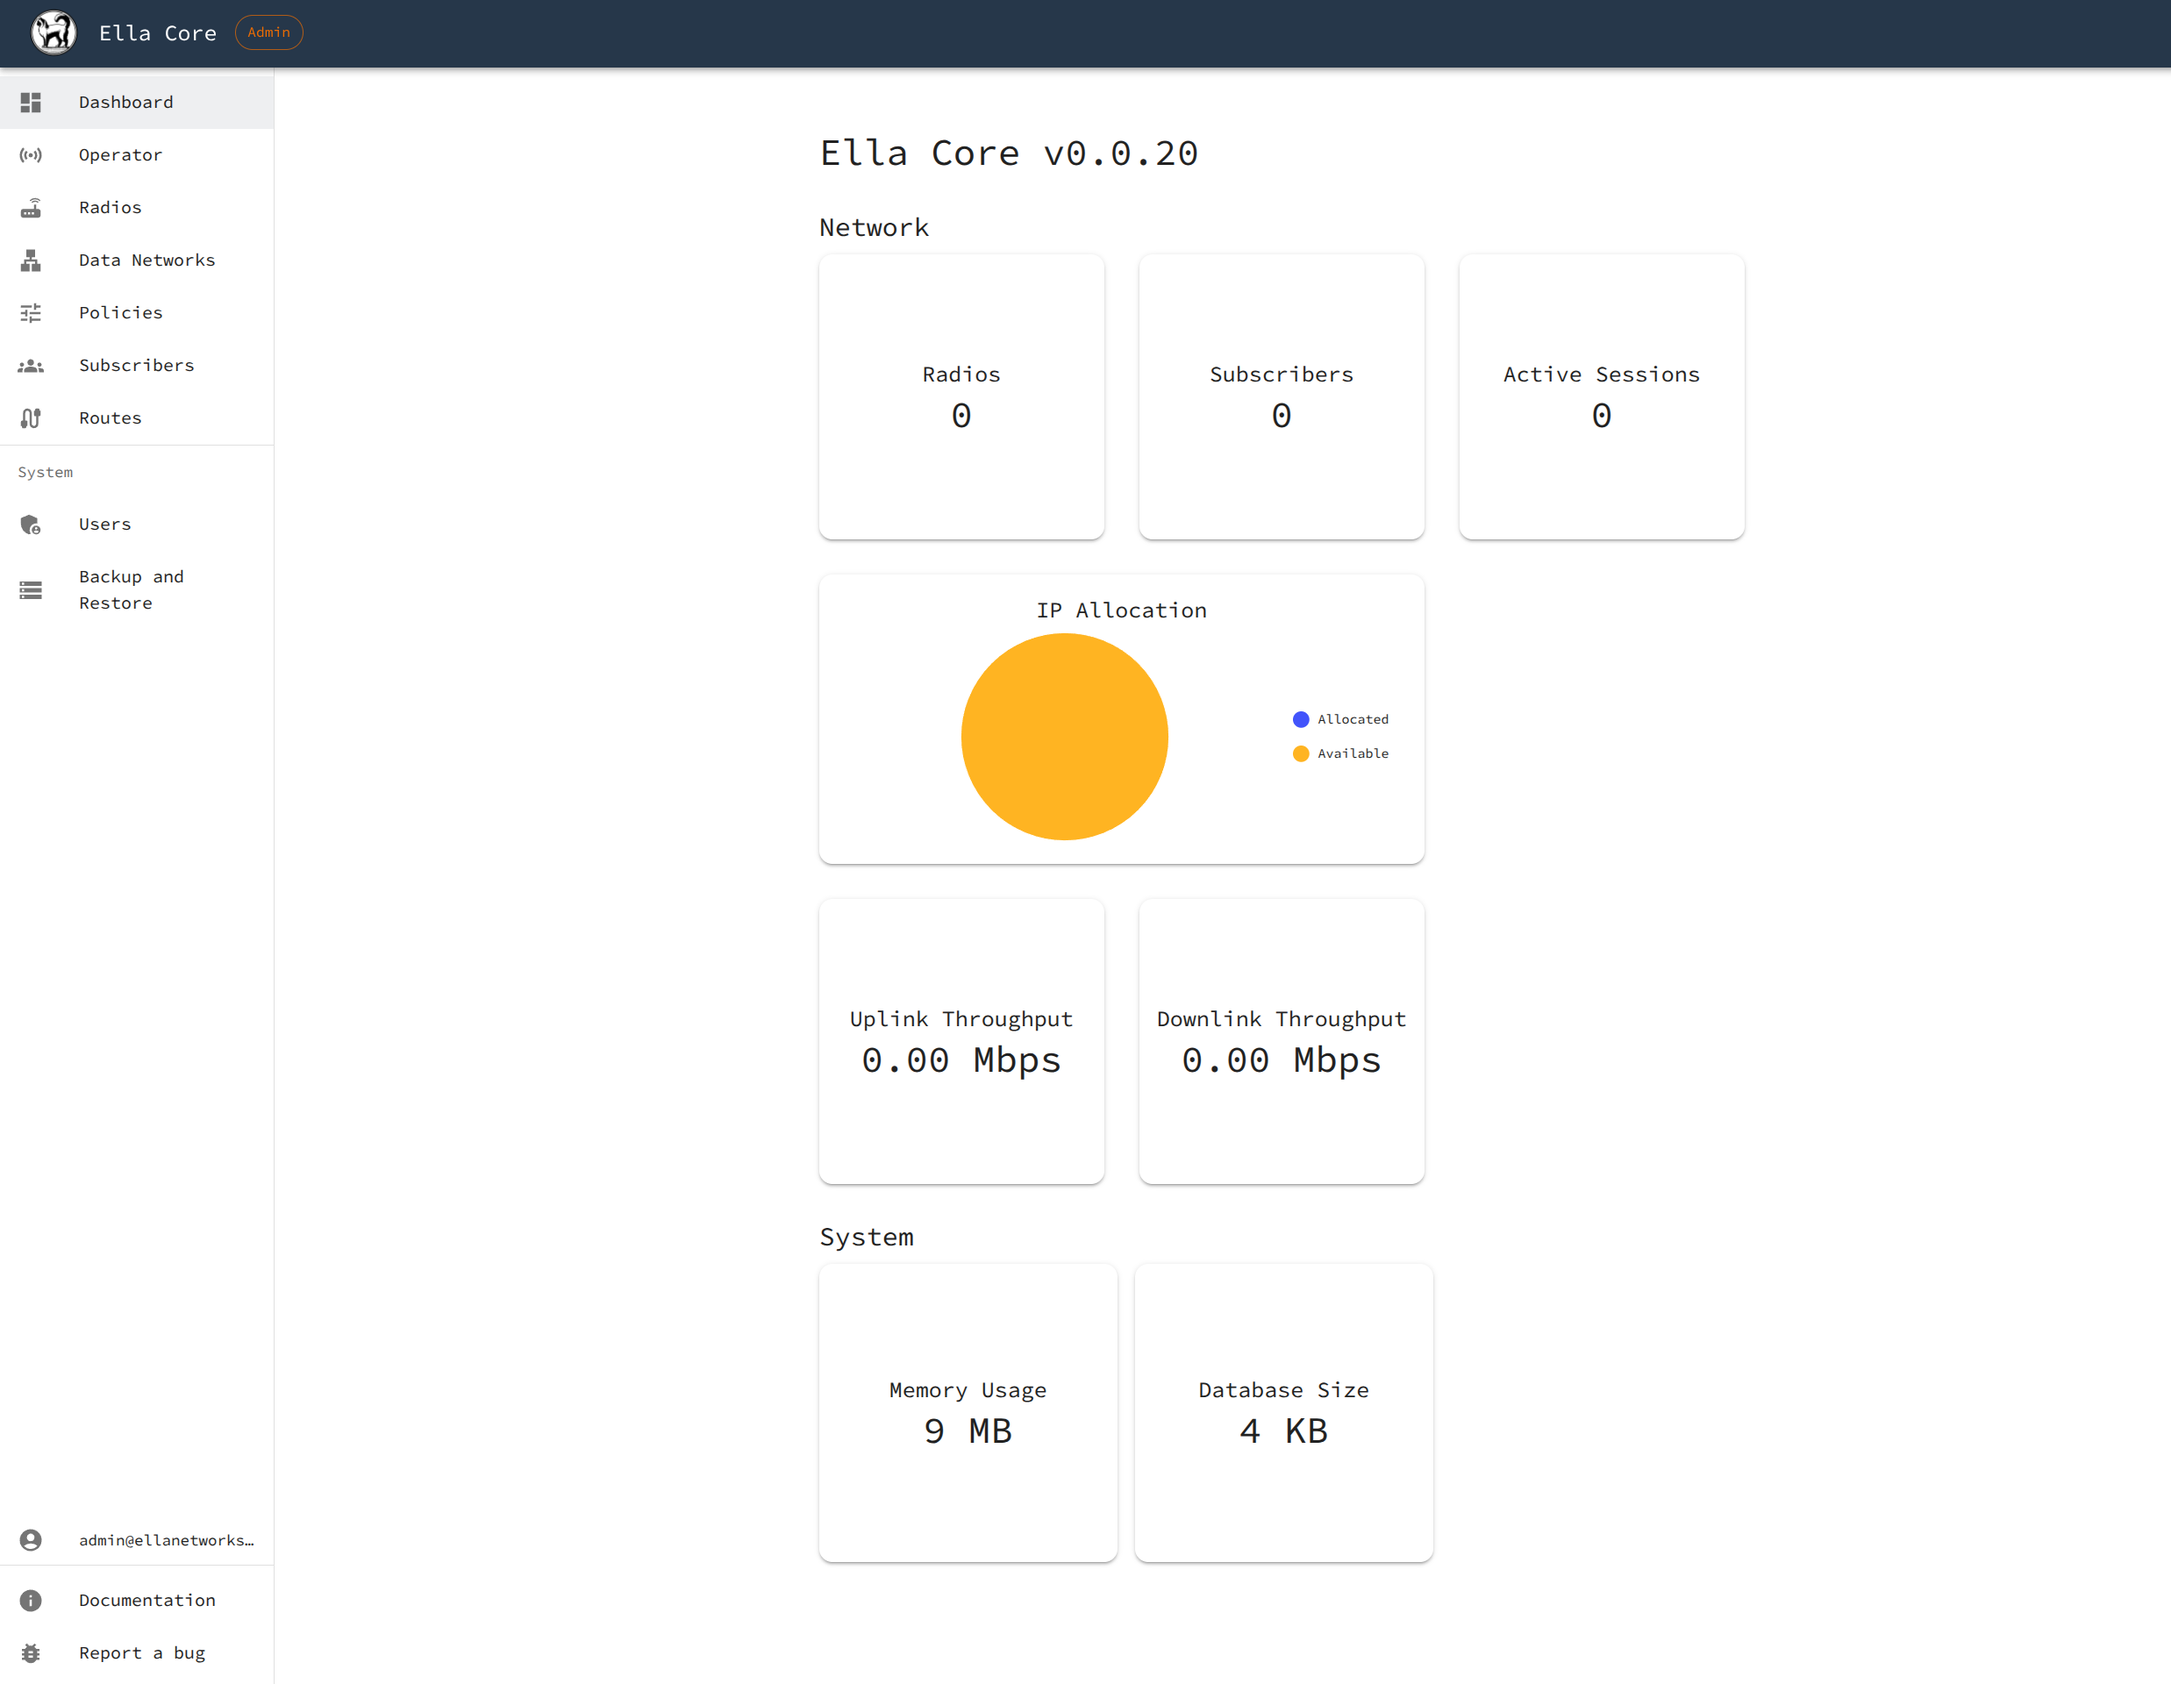
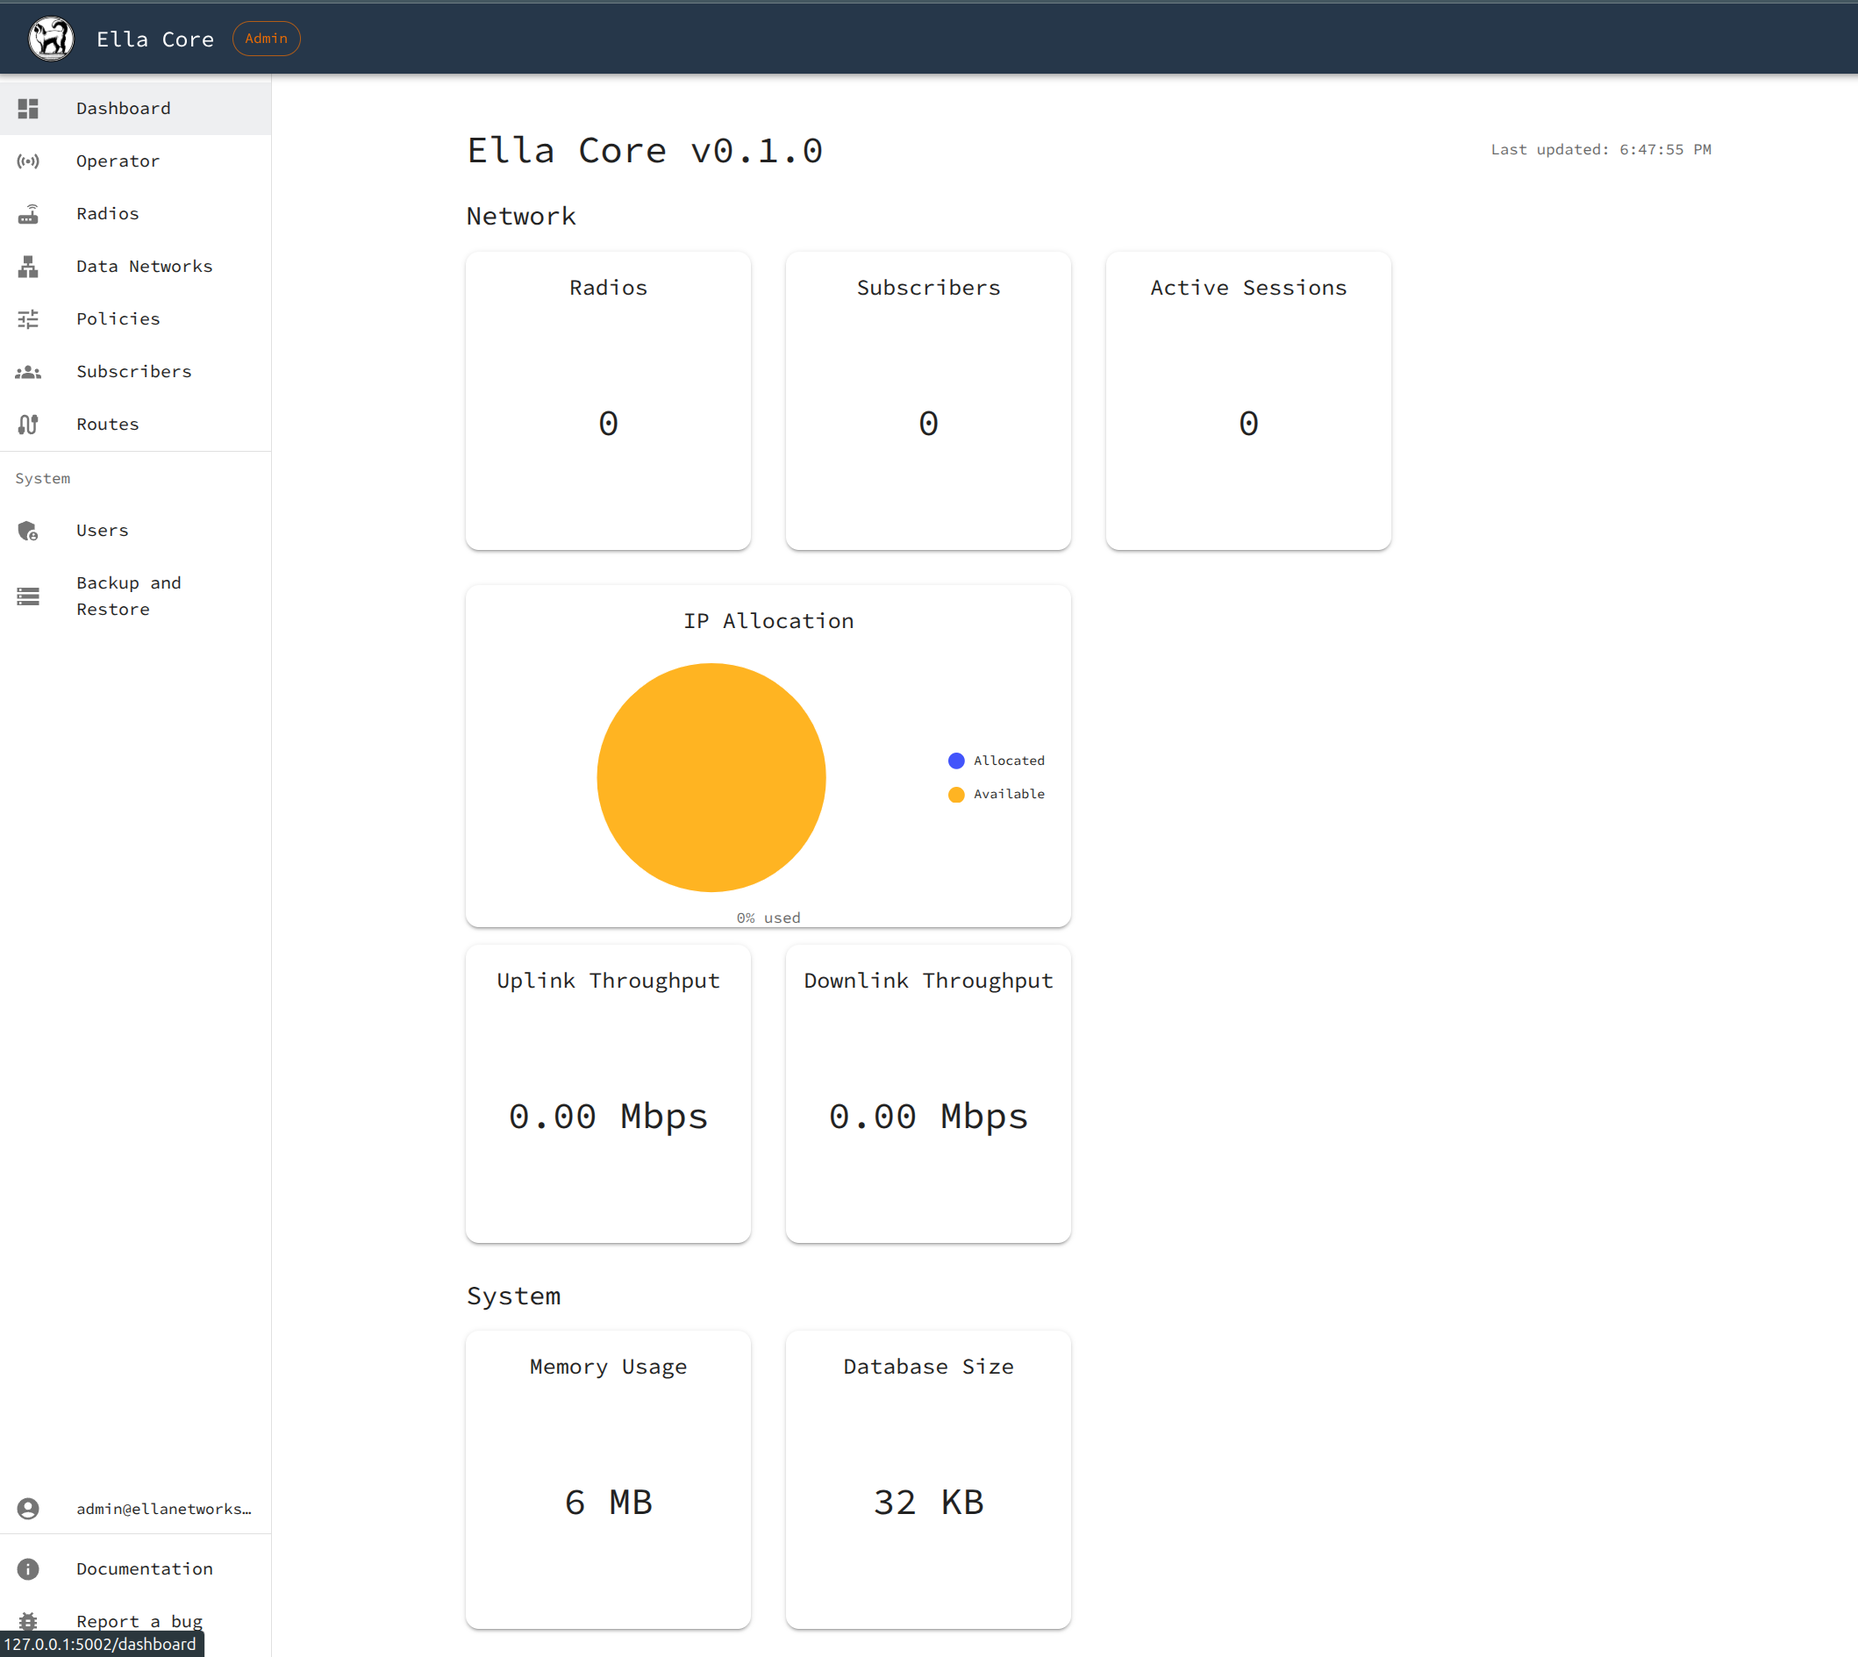
chore: bump version to v0.1.0 (#623)

diff --git a/CONTRIBUTING.md b/CONTRIBUTING.md
@@ -43,7 +43,7 @@ Build the image and push it to the local registry
 
 ```shell
 rockcraft pack
-sudo rockcraft.skopeo --insecure-policy copy oci-archive:ella-core_v0.0.20_amd64.rock docker-daemon:ella-core:latest
+sudo rockcraft.skopeo --insecure-policy copy oci-archive:ella-core_v0.1.0_amd64.rock docker-daemon:ella-core:latest
 docker tag ella-core:latest localhost:5000/ella-core:latest
 docker push localhost:5000/ella-core:latest
 ```
@@ -107,7 +107,7 @@ mkdocs build
 ```shell
 sudo snap install rockcraft --classic --edge
 rockcraft pack -v
-sudo rockcraft.skopeo --insecure-policy copy oci-archive:ella-core_v0.0.20_amd64.rock docker-daemon:ella-core:latest
+sudo rockcraft.skopeo --insecure-policy copy oci-archive:ella-core_v0.1.0_amd64.rock docker-daemon:ella-core:latest
 docker run ella-core:latest
 ```
 

diff --git a/docs/how_to/install.md b/docs/how_to/install.md
@@ -38,5 +38,5 @@ description: Step-by-step instructions to install Ella Core.
     Ensure your Kubernetes cluster is running with the [Multus CNI](https://github.com/k8snetworkplumbingwg/multus-cni) installed.
 
     ```bash
-    kubectl apply -k github.com/ellanetworks/core/k8s/core/base?ref=v0.0.20 -n ella
+    kubectl apply -k github.com/ellanetworks/core/k8s/core/base?ref=v0.1.0 -n ella
     ```

diff --git a/docs/reference/api/status.md b/docs/reference/api/status.md
@@ -22,7 +22,7 @@ None
 ```json
 {
     "result": {
-        "version": "v0.0.20",
+        "version": "v0.1.0",
         "initialized": true
     }
 }
